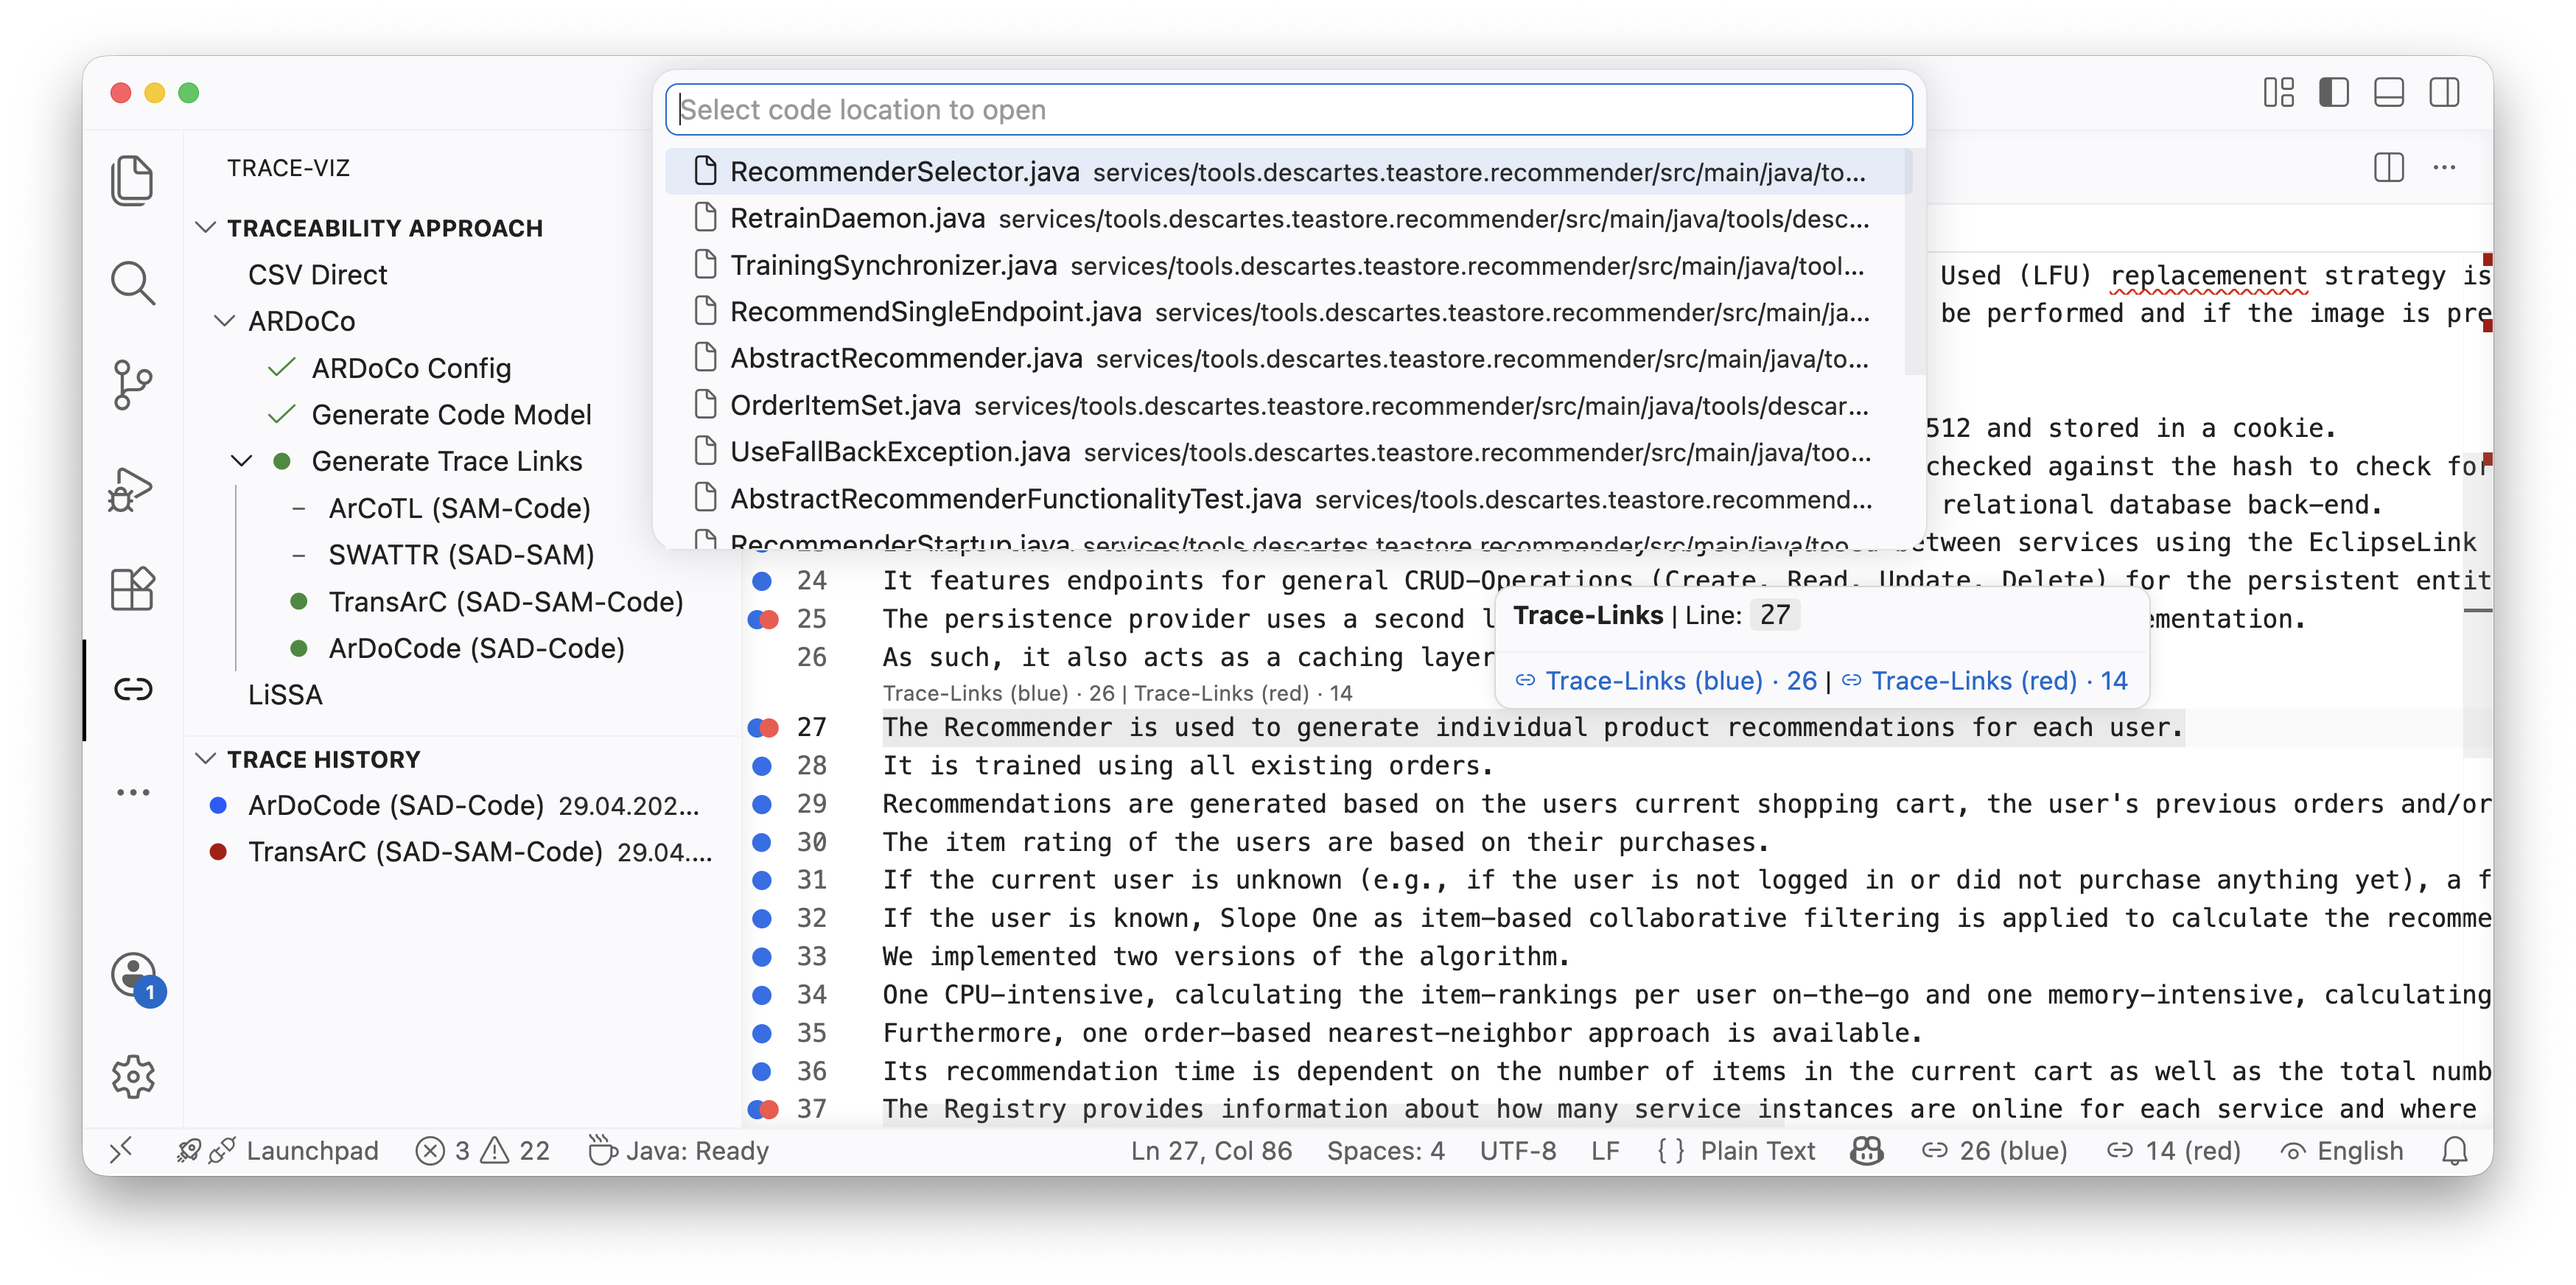
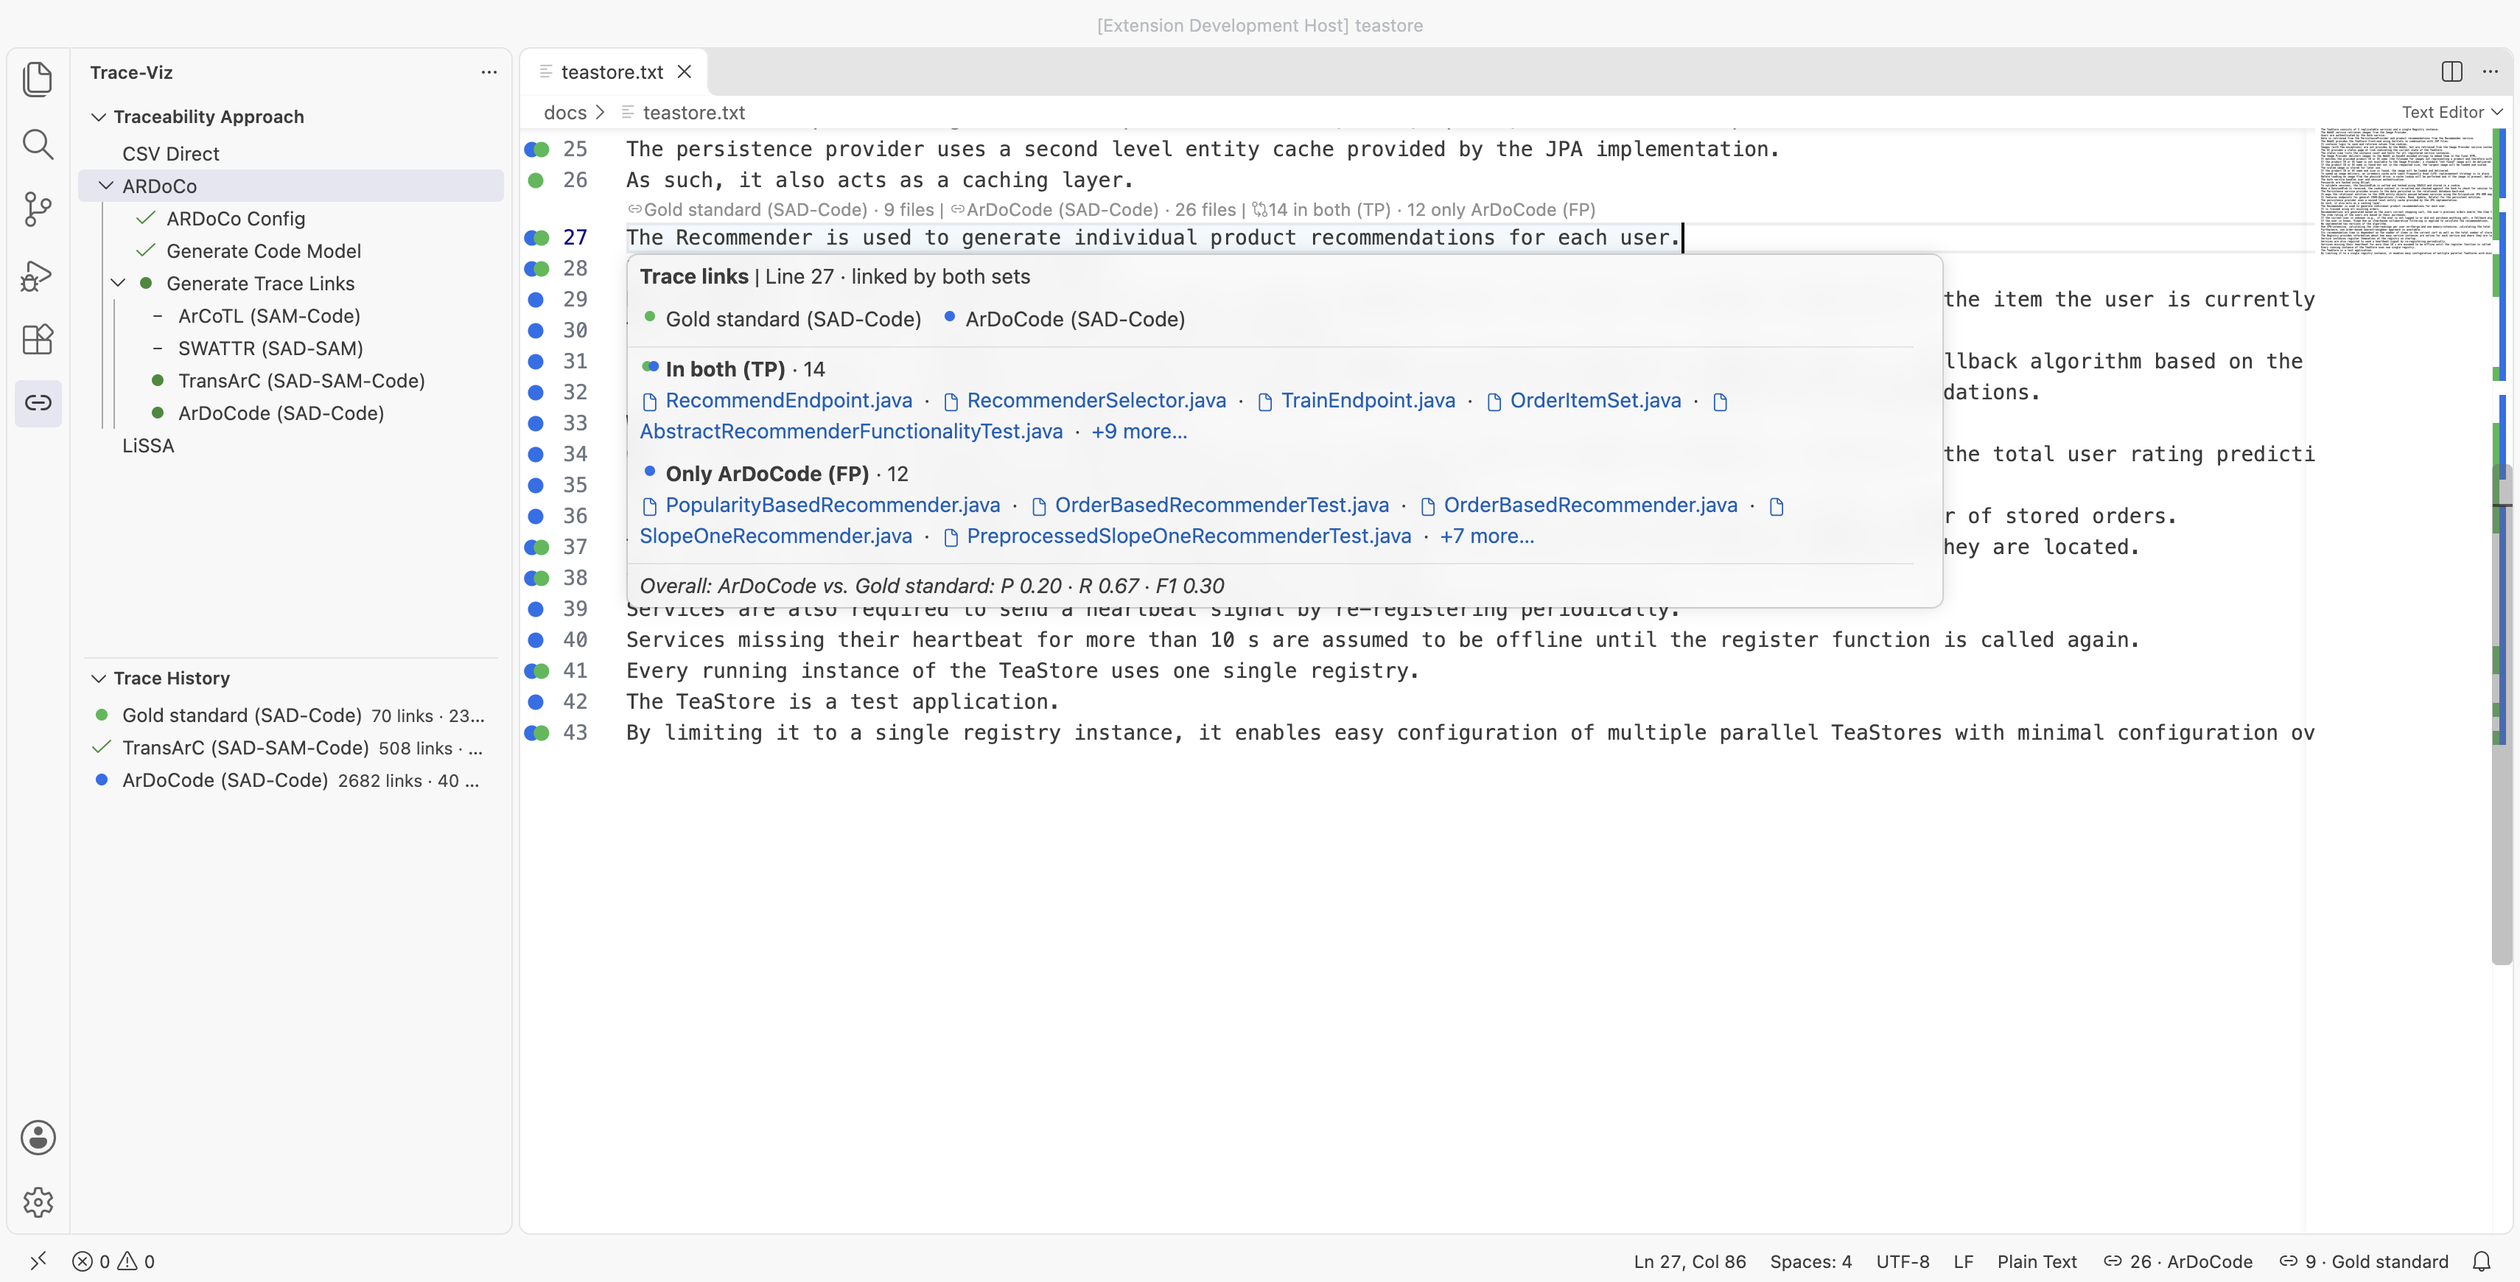
Update README and screenshots

Changed region(s): [[0.0, 0.031, 1.0, 0.9931], [0.4339, 0.0, 0.5579, 0.031], [0.186, 0.0931, 0.217, 0.1241]]

diff --git a/README.md b/README.md
@@ -5,22 +5,35 @@ It visualizes links between natural language **Software Architecture Documentati
 
 ![Overview](.images/traceviz-overview.png)
 
-*Colored gutter dots mark SAD-Code trace links. Hovering a line reveals per-set counts and a Quick Pick listing linked code files for one-click navigation. The sidebar shows available TLR approaches and trace history.*
+*Colored gutter dots mark SAD-Code trace links of the active sets. A CodeLens above each linked line summarizes both sets, and the hover shows which code files are linked by both sets, which only by one, and the precision, recall and F1 of an approach against a gold standard. The sidebar lists the available TLR approaches and the Trace History.*
+
+![Navigation](.images/traceviz-navigation.png)
+
+*In a linked code file, a CodeLens at the top and badges in the file explorer show how many documentation sentences link to it. The Quick Pick lists these sentences with a colored icon and the sentence text, and marks each one as linked by both sets or only by one.*
 
 ---
 
 ## Features
 
-- **Gutter markers** — lines with trace links are annotated with a colored dot; the color identifies the active trace link set
-- **Hover tooltips** — hovering a marked line shows the number of linked files per set
-- **Quick Pick navigation** — click a gutter dot, CodeLens annotation, or the status bar button to open a Quick Pick list of linked files for one-click navigation
-- **Side-by-side comparison** — up to two trace link sets can be loaded simultaneously in distinct colors (e.g., blue for ArDoCode, red for TransArC)
+- **Named trace link sets** — every set in the Trace History has a readable name and a color; the name is used in the hover, CodeLens, Quick Pick, and status bar
+- **Gutter markers** — lines with trace links are annotated with colored dots, one per active set
+- **Hover with legend** — hovering a marked line shows a legend of the active sets, the linked files per set, and clickable file names that open the code
+- **CodeLens** — a CodeLens above each linked documentation line summarizes the links per set; linked code files get a CodeLens at the top that summarizes the linked documentation sentences
+- **Quick Pick navigation** — click a gutter dot, CodeLens, or status bar item to pick a linked file (from documentation) or a linked sentence (from code); entries have colored icons and show the sentence text
+- **Side-by-side comparison** — up to two trace link sets can be active at once; links are grouped into "in both", "only A", and "only B"
+- **Evaluation against a gold standard** — if one of the two sets is a gold standard (`isGoldStandard` in the history entry, or "gold" in its name), the groups are labeled TP, FP, and FN, and the hover shows precision, recall, and F1
+- **Explorer badges and overview ruler** — files with trace links get a colored badge in the file explorer, and linked lines are marked in the overview ruler
+- **Unlinked sentences** — the command **TraceViz: Toggle Unlinked Sentences** marks documentation lines without any trace link
 - **Directory heuristic** — when all files in a folder link to the same line, a single directory-level dot replaces per-file markers, reducing visual noise
-- **Trace History** — past runs are persisted in a history panel and can be re-activated with one click
+- **Trace History** — past runs are persisted in a history panel with a summary per set (links, sentences, files) and can be re-activated with one click
 - **Multiple trace link sources**:
   - **ARDoCo REST API** — ArDoCode (SAD-Code) and TransArC (SAD-SAM-Code) via [rest.ardoco.de](https://rest.ardoco.de)
   - **LiSSA** — generic RAG-based TLR via a local JAR invocation
   - **CSV Direct** — import trace links from any tool producing the expected format
+
+### Try it in the browser
+
+A demo with preloaded trace links runs in the browser at <https://ardoco.github.io/traceviz/>. It only supports preloaded trace links; ARDoCo and LiSSA runs are available in the desktop extension only.
 
 ## Getting Started
 
@@ -56,7 +69,8 @@ It visualizes links between natural language **Software Architecture Documentati
    - **ARDoCo** → configure the REST API endpoint, select a pipeline (ArDoCode or TransArC), and generate trace links
    - **LiSSA** → point to a local LiSSA JAR and run
    - **CSV Direct** → import a CSV file with pre-generated trace links
-4. **Navigate** — gutter dots appear on every linked line. Hover for counts, click to open the Quick Pick navigator.
+4. **Navigate** — gutter dots appear on every linked line. Hover for the linked files per set, click a dot or CodeLens to open the Quick Pick navigator.
+5. **Compare** — activate a second set in the Trace History to see where the sets agree; if one of them is a gold standard, the hover also shows TP, FP, FN, precision, recall, and F1.
 
 ### Configuration
 
